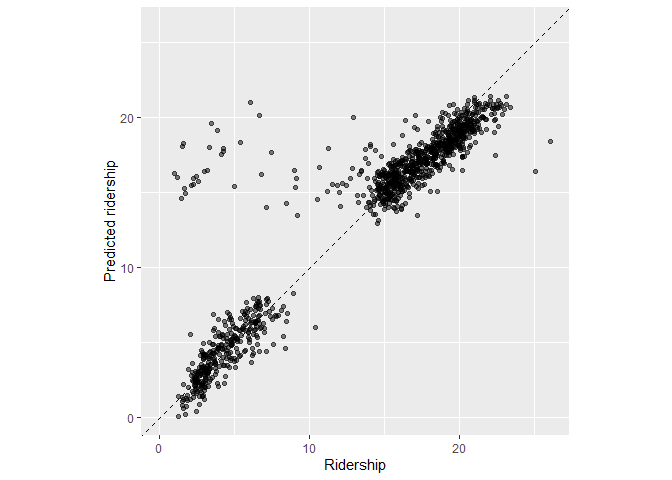
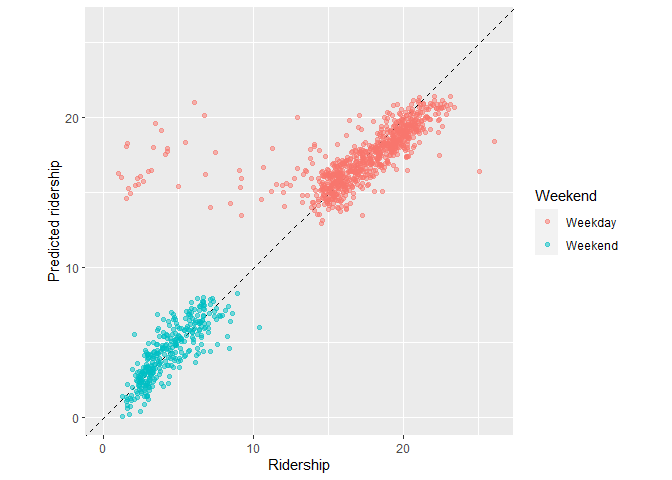
update

diff --git a/Assignment_1-8-2024.html b/Assignment_1-8-2024.html
@@ -358,10 +358,10 @@ display: none;
 <pre class="r"><code>library(modeldata)
 library(tidyverse)</code></pre>
 <pre><code>## ── Attaching core tidyverse packages ──────────────────────── tidyverse 2.0.0 ──
-## ✔ dplyr     1.1.4     ✔ readr     2.1.4
-## ✔ forcats   1.0.0     ✔ stringr   1.5.1
+## ✔ dplyr     1.1.2     ✔ readr     2.1.4
+## ✔ forcats   1.0.0     ✔ stringr   1.5.0
 ## ✔ ggplot2   3.4.4     ✔ tibble    3.2.1
-## ✔ lubridate 1.9.3     ✔ tidyr     1.3.0
+## ✔ lubridate 1.9.2     ✔ tidyr     1.3.0
 ## ✔ purrr     1.0.2     
 ## ── Conflicts ────────────────────────────────────────── tidyverse_conflicts() ──
 ## ✖ dplyr::filter() masks stats::filter()
@@ -382,7 +382,7 @@ library(tidymodels)</code></pre>
 ## ✖ dplyr::lag()      masks stats::lag()
 ## ✖ yardstick::spec() masks readr::spec()
 ## ✖ recipes::step()   masks stats::step()
-## • Learn how to get started at https://www.tidymodels.org/start/</code></pre>
+## • Dig deeper into tidy modeling with R at https://www.tmwr.org</code></pre>
 <pre class="r"><code>data(&quot;Chicago&quot;)
 Chicago</code></pre>
 <pre><code>## # A tibble: 5,698 × 50
@@ -528,7 +528,7 @@ chicago_rec</code></pre>
 ## weather:   18</code></pre>
 <pre><code>## </code></pre>
 <pre><code>## ── Operations</code></pre>
-<pre><code>## • Centering and scaling for: has_role(&quot;station&quot;) and has_role(&quot;weather&quot;)</code></pre>
+<pre><code>## • Centering and scaling for: has_role(&quot;station&quot;), has_role(&quot;weather&quot;)</code></pre>
 <pre><code>## • PCA extraction with: has_role(&quot;station&quot;)</code></pre>
 <pre><code>## • PCA extraction with: has_role(&quot;weather&quot;)</code></pre>
 </div>
@@ -577,15 +577,15 @@ the predictions.</p>
 <pre><code>## Warning in predict.lm(object = object$fit, newdata = new_data, type =
 ## &quot;response&quot;, : prediction from rank-deficient fit; consider predict(.,
 ## rankdeficient=&quot;NA&quot;)</code></pre>
-<pre class="r"><code>chicago_test_res &lt;- bind_cols(chicago_test_res, chicago_test %&gt;% select(ridership))</code></pre>
-<pre class="r"><code>ggplot(chicago_test_res, aes(x = ridership, y = .pred)) + 
+<pre class="r"><code>chicago_test_res &lt;- bind_cols(chicago_test_res, chicago_test %&gt;% select(ridership, Weekend))</code></pre>
+<pre class="r"><code>ggplot(chicago_test_res, aes(x = ridership, y = .pred, color = Weekend)) + 
   # Create a diagonal line:
   geom_abline(lty = 2) + 
   geom_point(alpha = 0.5) + 
   labs(y = &quot;Predicted ridership&quot;, x = &quot;Ridership&quot;) +
   # Scale and size the x- and y-axis uniformly:
   coord_obs_pred()</code></pre>
[2 lines of base64/hex data omitted]
 <p>Few random spikes</p>
 <pre class="r"><code>rmse(chicago_test_res, truth = ridership, estimate = .pred)</code></pre>
 <pre><code>## # A tibble: 1 × 3

diff --git a/Assignment_1-8-2024.md b/Assignment_1-8-2024.md
@@ -16,10 +16,10 @@ library(tidyverse)
 
 ```
 ## ── Attaching core tidyverse packages ──────────────────────── tidyverse 2.0.0 ──
-## ✔ dplyr     1.1.4     ✔ readr     2.1.4
-## ✔ forcats   1.0.0     ✔ stringr   1.5.1
+## ✔ dplyr     1.1.2     ✔ readr     2.1.4
+## ✔ forcats   1.0.0     ✔ stringr   1.5.0
 ## ✔ ggplot2   3.4.4     ✔ tibble    3.2.1
-## ✔ lubridate 1.9.3     ✔ tidyr     1.3.0
+## ✔ lubridate 1.9.2     ✔ tidyr     1.3.0
 ## ✔ purrr     1.0.2     
 ## ── Conflicts ────────────────────────────────────────── tidyverse_conflicts() ──
 ## ✖ dplyr::filter() masks stats::filter()
@@ -46,7 +46,7 @@ library(tidymodels)
 ## ✖ dplyr::lag()      masks stats::lag()
 ## ✖ yardstick::spec() masks readr::spec()
 ## ✖ recipes::step()   masks stats::step()
-## • Learn how to get started at https://www.tidymodels.org/start/
+## • Dig deeper into tidy modeling with R at https://www.tmwr.org
 ```
 
 ```r
@@ -235,7 +235,7 @@ chicago_rec
 ```
 
 ```
-## • Centering and scaling for: has_role("station") and has_role("weather")
+## • Centering and scaling for: has_role("station"), has_role("weather")
 ```
 
 ```
@@ -302,12 +302,12 @@ chicago_test_res <- predict(lm_fit, new_data = chicago_test %>% select(-ridershi
 ```
 
 ```r
-chicago_test_res <- bind_cols(chicago_test_res, chicago_test %>% select(ridership))
+chicago_test_res <- bind_cols(chicago_test_res, chicago_test %>% select(ridership, Weekend))
 ```
 
 
 ```r
-ggplot(chicago_test_res, aes(x = ridership, y = .pred)) + 
+ggplot(chicago_test_res, aes(x = ridership, y = .pred, color = Weekend)) + 
   # Create a diagonal line:
   geom_abline(lty = 2) + 
   geom_point(alpha = 0.5) + 
